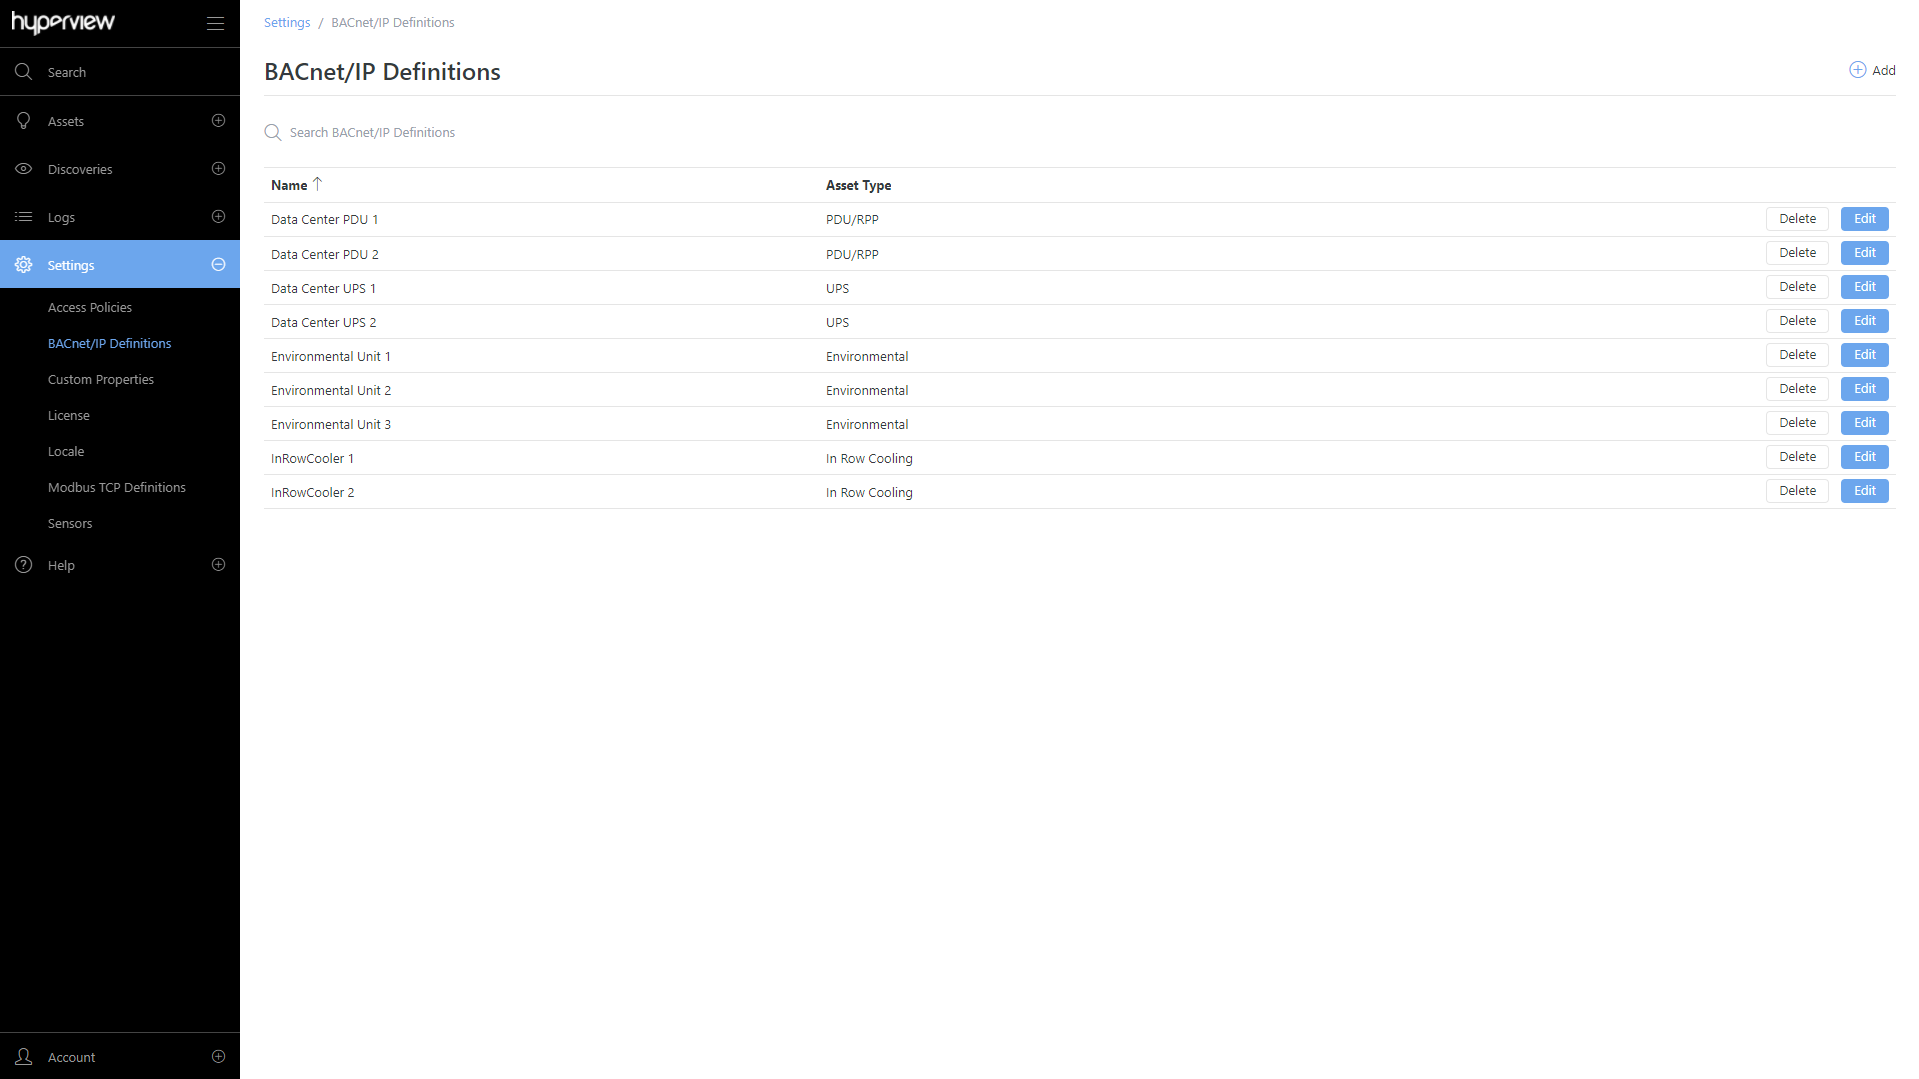
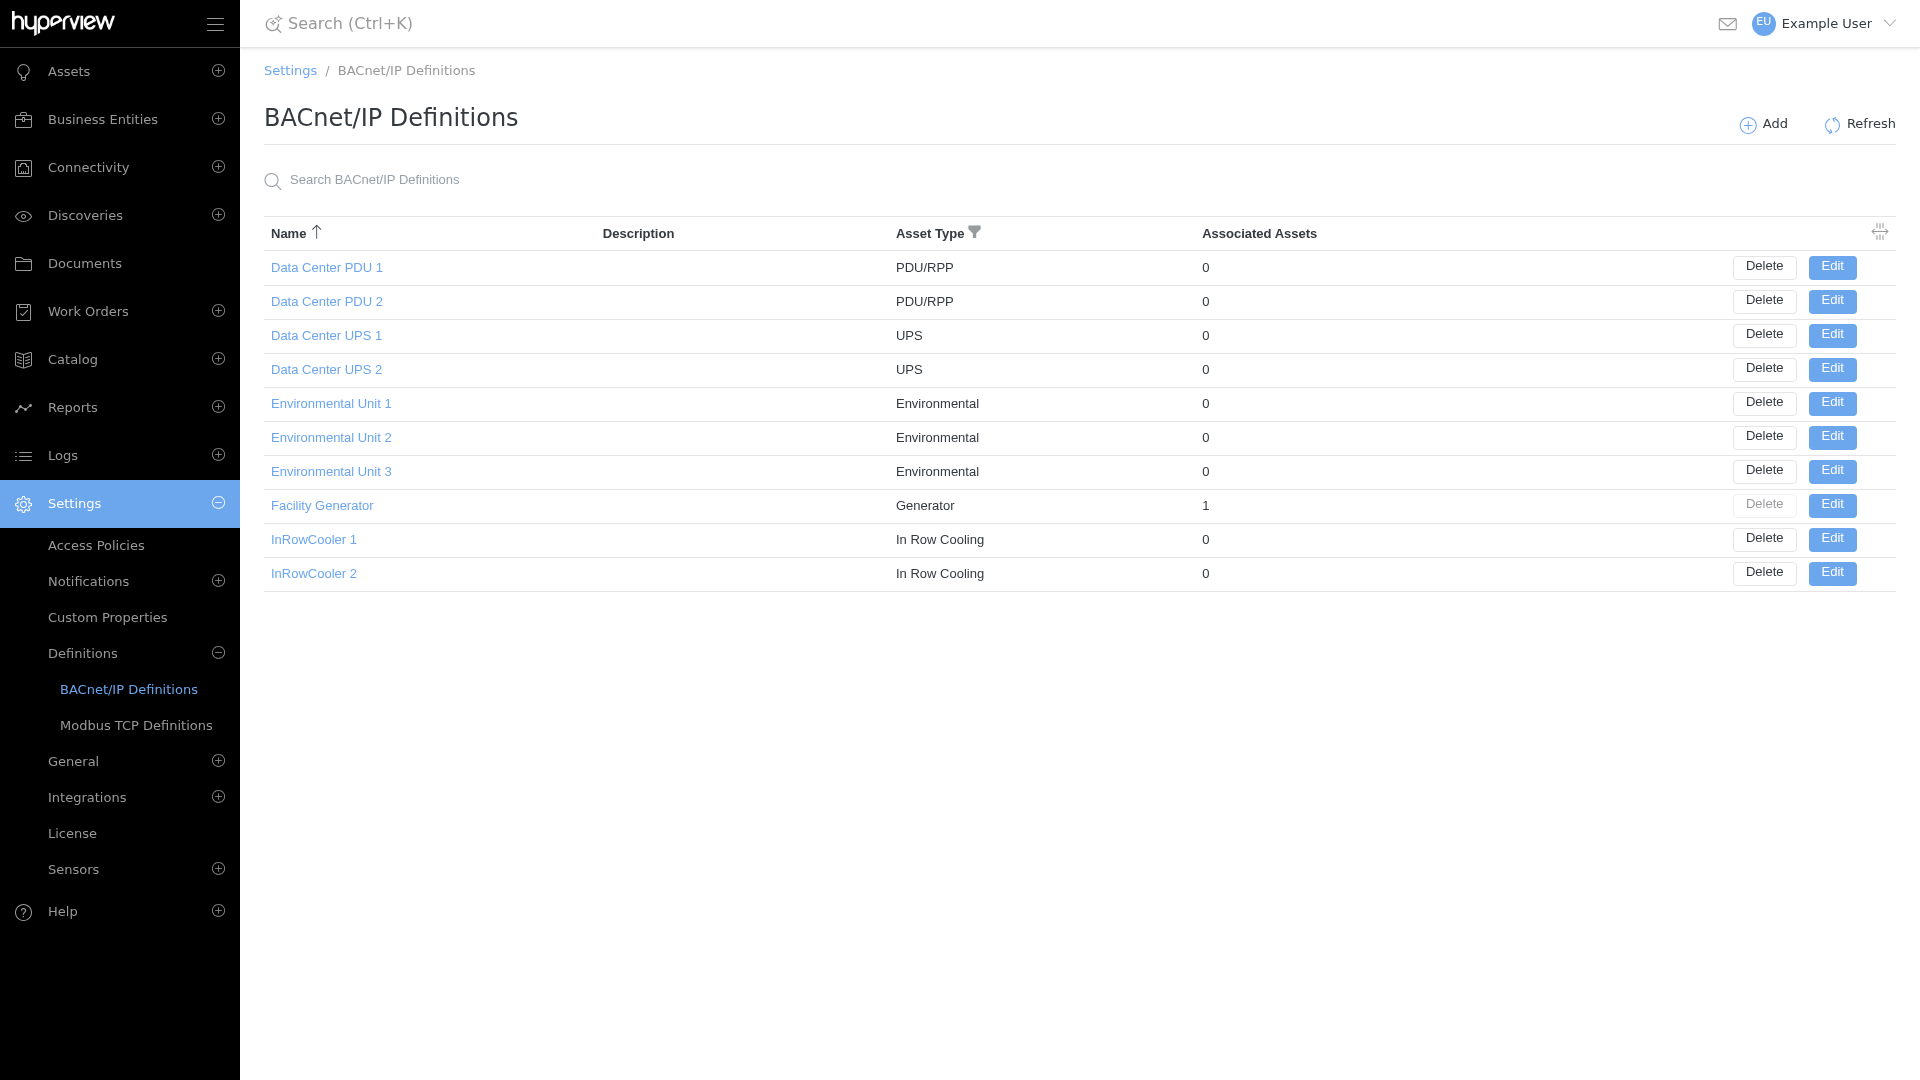
Documentation update (#72)
* Updated SAML setup doc
* Updated BACnet and Modbus definition docs
* Added changes for 5.6.3
* Added a .prettierignore file

diff --git a/documentation/product/settings/topics/managing-modbus.md b/documentation/product/settings/topics/managing-modbus.md
@@ -34,7 +34,7 @@ Hyperview uses a starting index of 0 for Modbus TCP addresses. If you are experi
 
 ## Adding a Modbus TCP definition
 
-1. Go to *Settings → Modbus TCP Definitions*.
+1. Go to *Settings → Definitions → Modbus TCP Definitions*.
 2. Click *Add*. Alternatively, if you have no Modbus TCP definitions, click *Add new Modbus TCP definition.*
 3. Enter a Name and Asset Type for the definition. You can optionally enter a Description. Click *Save*.
 
@@ -48,11 +48,29 @@ Refer to the "Adding a single asset" section in {ref}`assets` for steps to manua
 :class: border-black
 ```
 
+### Adding components
+
+Use components when a single asset contains multiple Modbus device (slave) addresses. Each component represents one address and is managed individually under the parent device, so a single definition can cover all of the asset's addresses.
+
+1. While editing or adding the Modbus TCP definition, click the *Components* tab.
+2. Click *Add*. Alternatively, if there are no existing components, click *Add Component.*
+3. Enter a Component Name and click *Save*.
+
+A success message will appear, and the component will be listed in the grid. Repeat the steps to add additional components as appropriate. When adding a numeric or non-numeric sensor definition, you can then assign the sensor to a component using the optional Component field.
+
+```{image} /product/settings/media/modbus_components.png
+:class: border-black
+```
+
+:::{note}
+If you are unsure whether components are appropriate for your setup, contact Hyperview support for guidance.
+:::
+
 ### Adding a numeric sensor definition
 
 1. While editing or adding the Modbus TCP definition, click the *Numeric Sensors* tab.
 2. Click *Add*. Alternatively, if there are no existing sensor definitions, click *Add Numeric Sensor.*
-3. Provide values for Address, Type, Data Type, Sensor Type, Sensor Name, and Sensor Unit. Note that the Sensor Name and Sensor Unit fields will only appear once you have selected a Sensor Type.
+3. Provide values for Address, Type, Data Type, Sensor Type, Sensor Name, and Sensor Unit. Note that the Sensor Unit field will only appear once you have selected a Sensor Type. If the definition has components, you can optionally assign the sensor to a Component (see "Adding components" above).
 4. Under *Data Interpretation*, choose the Order of Operations and provide a Multiplier and Offset to apply to raw values. A Formula Preview shows how the raw value will be transformed.
 5. Click *Save*.
 
@@ -62,7 +80,7 @@ A success message will appear, and the numeric sensor definition will be listed 
 
 1. While editing or adding the Modbus TCP definition, click the *Non-numeric Sensors* tab.
 2. Click *Add*. Alternatively, if there are no existing sensor definitions, click *Add Non-numeric Sensor.*
-3. Provide values for Object Instance, Type, Sensor Type, Sensor Name. Additionally, you can modify Value mappings (for all types) or add Value mappings (for non-binary types).
+3. Provide values for Address, Type, Sensor Type, Sensor Name. Additionally, you can modify Value mappings (for all types) or add Value mappings (for non-binary types). If the definition has components, you can optionally assign the sensor to a Component (see "Adding components" above).
 4. Click *Save*.
 
 ```{image} /product/settings/media/modbus_2.png
@@ -73,7 +91,7 @@ A success message will appear, and the non-numeric sensor definition will be lis
 
 ## Updating a Modbus TCP definition
 
-1. Go to *Settings → Modbus TCP Definitions → Edit.*
+1. Go to *Settings → Definitions → Modbus TCP Definitions → Edit.*
 2. Update values from the *Overview* or *Numeric Sensors* tab as required, and save your changes.
 
 A success message will appear for each change, and the current page will reload to reflect the change.
@@ -91,7 +109,7 @@ A success message will appear in each case, and the current page will reload to 
 
 You can see which assets use a definition on the definition's *Associations* tab. You cannot delete a Modbus TCP definition that has associated assets. After you have updated associated assets (from each asset's *Information → Monitoring* page):
 
-1. Go to *Settings → Modbus TCP Definitions*.
+1. Go to *Settings → Definitions → Modbus TCP Definitions*.
 2. Click *Delete → Delete* for the intended definition.
 
 A success message will appear, and the current page will reload to reflect the change.

diff --git a/documentation/user-guide/user-accounts/topics/entra-id-saml-configuration-guide.md b/documentation/user-guide/user-accounts/topics/entra-id-saml-configuration-guide.md
@@ -1,0 +1,66 @@
+(entra-id-saml-configuration-doc)=
+
+# Microsoft Entra ID SAML Configuration Guide
+
+This guide outlines the step-by-step process to configure Microsoft Entra ID as an Identity Provider (IdP) using SAML 2.0 with Hyperview.
+
+You must also be logged in as an Administrator in Hyperview to finish the Hyperview configuration side of the setup.
+
+## Prerequisites
+
+- **Permissions:** You must have either the **Cloud Application Administrator** or **Application Administrator** role in your Entra tenant.
+
+## Step 1: Create the Enterprise Application
+
+1. Sign in to the [Microsoft Entra admin center](https://entra.microsoft.com).
+2. Navigate to **Entra ID** > **Enterprise apps** > **All applications**.
+3. Select **New application** at the top of the page.
+4. Click **Create your own application**.
+5. Name your application "Hyperview".
+6. Choose **Integrate any other application you don't find in the gallery (Non-gallery)**.
+7. Click **Create** and wait for the application to deploy.
+8. Log in to Hyperview and navigate to **SAML SSO Configuration** (Your Name in the top right → **Account Management** → **SAML SSO Configuration**).
+9. Change **Data Export Method** to **Metadata file and Certificate**.
+10. Download Metadata and Download Certificate.
+
+## Step 2: Configure SAML Single Sign-On
+
+1. In the application's left-hand navigation menu, click **Single sign-on**.
+2. Select **SAML** as the single sign-on method.
+3. Click **Upload metadata file** and select the metadata file downloaded earlier.
+4. Click **Save** at the top of the panel.
+5. Scroll down to section 3, **SAML Certificates**, and click the edit button next to **Verification certificates**.
+6. Click **Require verification certificates**.
+7. Click **Upload certificate** and upload the certificate file downloaded earlier.
+8. Click **Save**.
+9. Click **Token Encryption** in the left pane under the security group.
+10. Click **Import certificate** and upload the certificate file downloaded earlier.
+11. Click the three dots **"..."** in the certificate row and select **Activate token encryption certificate**.
+
+## Step 3: Link Entra ID to Hyperview
+
+1. Navigate back to **Single sign-on** in the left pane.
+2. Scroll down to the **SAML Certificates** section on the SAML setup page.
+3. Copy the **App Federation Metadata Url**.
+4. Return to your Hyperview application instance as an administrator and navigate to **SAML SSO Configuration**.
+5. Set **Data Import Method** to **Metadata URL** and paste the URL in the **Metadata URL** field.
+6. Click **Submit**.
+7. Optionally enter a **Provider Name** to show that on the login page. Otherwise, the generic **Sign in with SSO** label is used.
+8. Click **Save**.
+
+## Step 4: Optionally, Assign Users and Test
+
+Optional user and group assignments may be required to restrict application access. Please note that this does not grant access to Hyperview unless there is an existing user or a User Provisioning policy for the domain.
+
+1. Return to Entra ID, navigate to **Properties**, enable **Assignment required**, and click **Save**.
+2. Navigate to **Users and groups**.
+3. Click **Add user/group**.
+4. Add users and groups as required.
+5. Test the integration by using a different browser or asking a colleague to test to ensure that SSO is configured properly.
+
+:::{important}
+Please do not enforce SAML Authentication for the domain unless you have tested and verified that everything works correctly. Doing so without testing and verification could result in you being locked out of your account.
+:::
+
+For more information about configuring SAML with Entra ID, please refer to [Microsoft Documentation](https://learn.microsoft.com/en-us/entra/architecture/auth-saml).
+

diff --git a/documentation/product/settings/topics/managing-bacnet.md b/documentation/product/settings/topics/managing-bacnet.md
@@ -8,7 +8,7 @@ A BACnet/IP definition can be assigned to any number of assets to enable monitor
 
 ## Adding a BACnet/IP definition
 
-1. Go to *Settings → BACnet/IP Definitions*.
+1. Go to *Settings → Definitions → BACnet/IP Definitions*.
 2. Click *Add*. Alternatively, if you have no BACnet/IP definitions, click *Add new BACnet/IP definition.*
 3. Enter a Name and Asset Type for the definition. You can optionally enter a Description. Click *Save*.
 
@@ -26,7 +26,7 @@ Refer to the "Adding a single asset" section in {ref}`assets` for steps to manua
 
 1. While editing or adding the BACnet/IP definition, click the *Numeric Sensors* tab.
 2. Click *Add*. Alternatively, if there are no existing sensor definitions, click *Add Numeric Sensor.*
-3. Provide values for Object Instance, Type, Sensor Type, Sensor Name, and Sensor Unit. Note that the Sensor Name and Sensor Unit fields will only appear once you have selected a Sensor Type.
+3. Provide values for Object Instance, Type, Sensor Type, Sensor Name, and Sensor Unit. Note that the Sensor Unit field will only appear once you have selected a Sensor Type.
 4. Under *Data Interpretation*, choose the Order of Operations and provide a Multiplier and Offset to apply to raw values. A Formula Preview shows how the raw value will be transformed.
 5. Click *Save*.
 
@@ -47,7 +47,7 @@ A success message will appear, and the non-numeric sensor definition will be lis
 
 ## Updating a BACnet/IP definition
 
-1. Go to *Settings → BACnet/IP Definitions → Edit.*
+1. Go to *Settings → Definitions → BACnet/IP Definitions → Edit.*
 2. Update values from the *Overview* or *Numeric Sensors* tab as required, and save your changes.
 
 A success message will appear for each change, and the current page will reload to reflect the change.
@@ -69,7 +69,7 @@ A success message will appear in each case, and the current page will reload to 
 
 You can see which assets use a definition on the definition's *Associations* tab. You cannot delete a BACnet/IP definition that has associated assets. After you have updated associated assets (from each asset's *Information → Monitoring* page):
 
-1. Go to *Settings → BACnet/IP Definitions*.
+1. Go to *Settings → Definitions → BACnet/IP Definitions*.
 2. Click *Delete → Delete* for the intended definition.
 
 A success message will appear, and the current page will reload to reflect the change.

diff --git a/documentation/user-guide/user-accounts/topics/administering-user-accounts.md b/documentation/user-guide/user-accounts/topics/administering-user-accounts.md
@@ -228,12 +228,23 @@ Under *Data Export Method*, choose how to provide Hyperview's service provider d
   - Token Encryption Certificate (click *Download Certificate*)
 - **Metadata file and Certificate** — a quick and easy way to configure SAML. If your identity provider supports it, import the exported file directly into the identity provider, then import the corresponding file generated by your identity provider back into Hyperview to finish the setup.
 
+:::{note}
+The Token Encryption Certificate serves two purposes when you configure your identity provider (IdP):
+
+- **Request signing certificate** — depending on the identity provider, this may be called a SAML Certificate, an Authentication Certificate, or a similar name. Different identity providers use different names for this function.
+- **SAML assertion encryption certificate** — also upload it to the assertion encryption configuration options section in your identity provider.
+:::
+
 ### Identity provider details
 
 1. Optionally enter a Provider Name (a friendly name such as "Azure Entra ID", "Okta", or "Ping Identity"). If left empty, the sign-in button will simply say "Sign in with SSO".
 2. Provide your identity provider's SAML details using a Metadata URL, a Metadata File Upload, or Manual Configuration, then click *Submit*.
 3. Optionally, use *Require SAML SSO Log In for Selected Domain* to enforce SAML SSO for a domain.
 4. Click *Save*.
+
+:::{important}
+If you are using **Entra ID**, please refer to the {ref}`Microsoft Entra ID SAML Configuration Guide<entra-id-saml-configuration-doc>`.
+:::
 
 (managing-api-clients-doc)=
 ## Managing API clients

diff --git a/documentation/release-notes/topics/version_5.md b/documentation/release-notes/topics/version_5.md
@@ -46,6 +46,11 @@ The following new asset types have been added to the product.
 - **AS-20660** Fixed a bug that could cause the asset monitoring state to not save under certain conditions.
 - **AS-20696** Fixed a bug that could cause an asset with Modbus components to save with the wrong address under certain conditions.
 
+### Changes in version 5.6.3
+
+- **AS-20713** Updated frontend dependency packages.
+- **AS-20714** Updated backend dependency packages.
+
 ## Hyperview 5.5 (April 08, 2026)
 
 ```{raw} html

diff --git a/documentation/user-guide/user-accounts/index.md b/documentation/user-guide/user-accounts/index.md
@@ -39,5 +39,6 @@ To exit the Account Management portal and return to the Hyperview screen, simply
 
 topics/managing-your-user-profile
 topics/administering-user-accounts
+topics/entra-id-saml-configuration-guide
 topics/account-security
 ```
